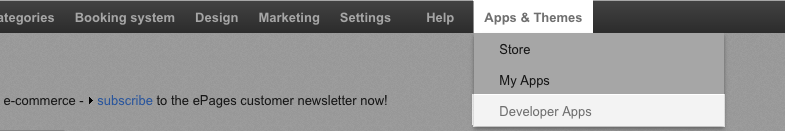
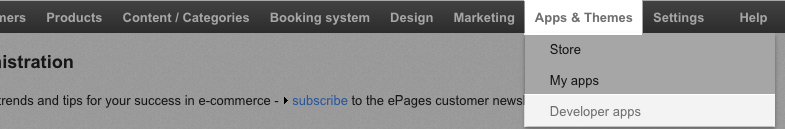
Update screenshots and align text

diff --git a/pages/apps/create-app.md b/pages/apps/create-app.md
@@ -15,20 +15,16 @@ Once you have your test shop in place, you can create an app. You automatically 
 
 # Get your credentials
 
-1. Within the administration area of your test shop, click the tab **Apps & Themes**.
+1. Within the administration area of your test shop, click the tab **Apps & Themes**. In the drop down menu, choose the field **Developer apps**.
     {% image click-apps.png %}{% endimage %}
 
-2. In the drop down menu, choose the field **Developer Apps**.
-    {% image choose-developer-apps.png %}{% endimage %}
-
-3. In the **Developer Apps** view, click the button **Add**.
+2. In the **Developer Apps** view, click the button **Add**.
     {% image add-button.png %}{% endimage %}
 
-4. Fill out the entry field **App name**. This field is mandatory.
+3. Fill out the entry field **App name**. This field is mandatory. Then click the button **Generate API access data**.
     {% image fillout-app-name.png %}{% endimage %}
 
-5. Click the button **Save**.
-6. You will be assigned a **Client ID**, **Client Secret** and **Access Token**.
+4. You will be assigned a **Client ID**, **Client Secret** and **Access token**.
     {% image test-shop-credentials.png %}{% endimage %}
 
 {% callout danger Important! %}
